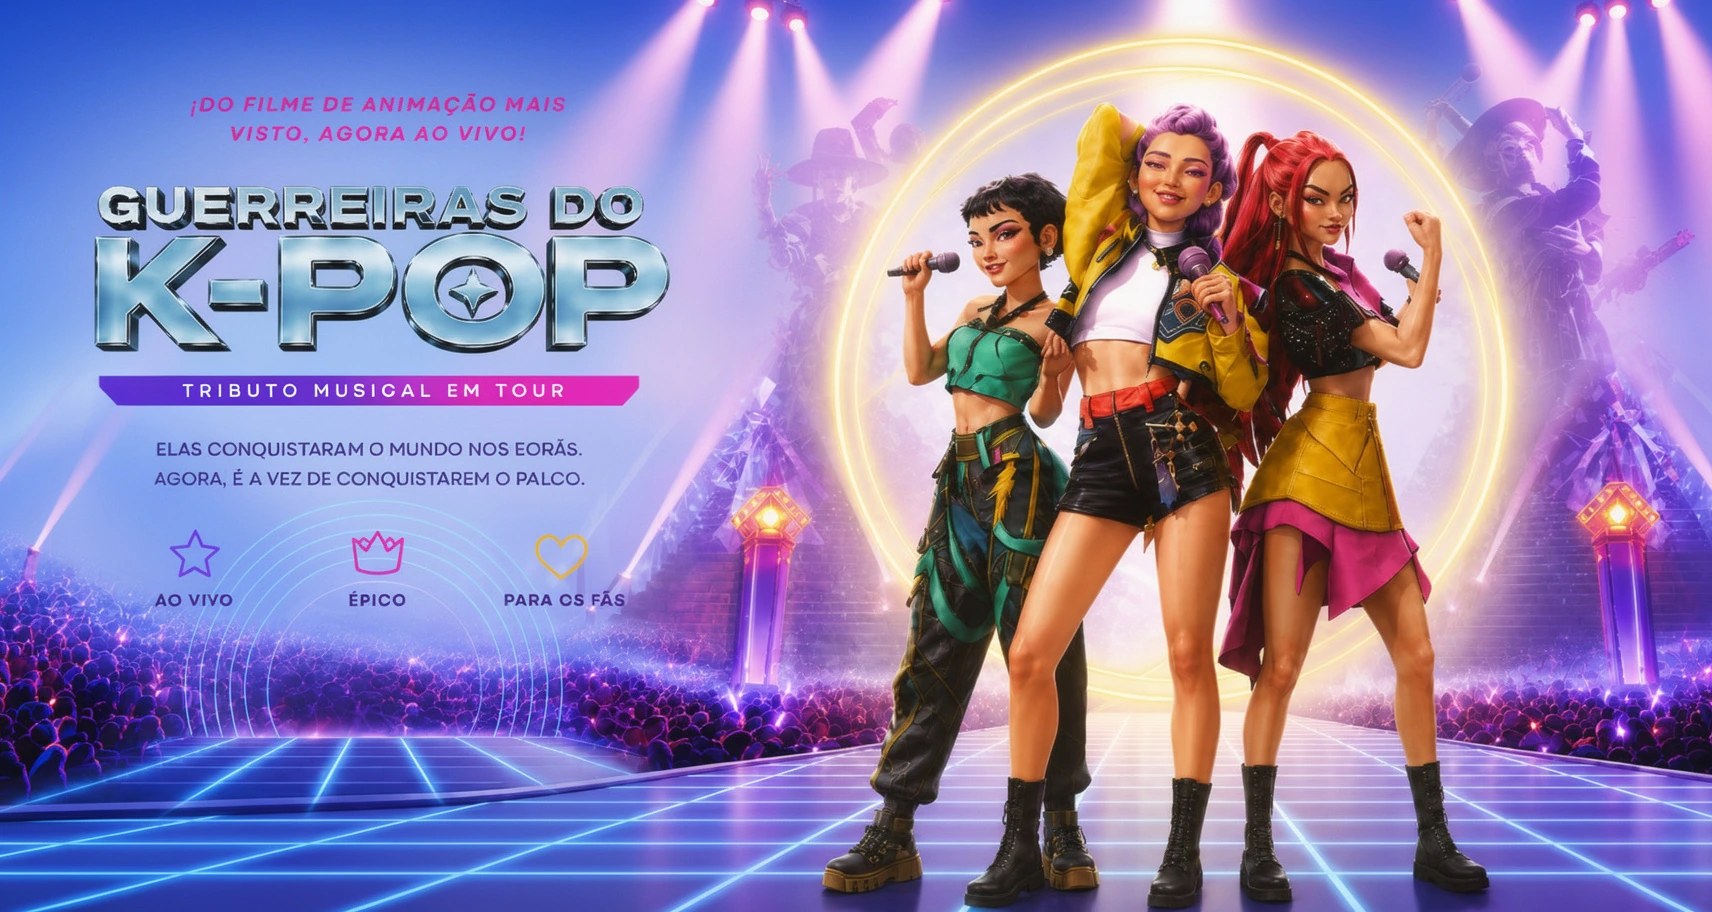
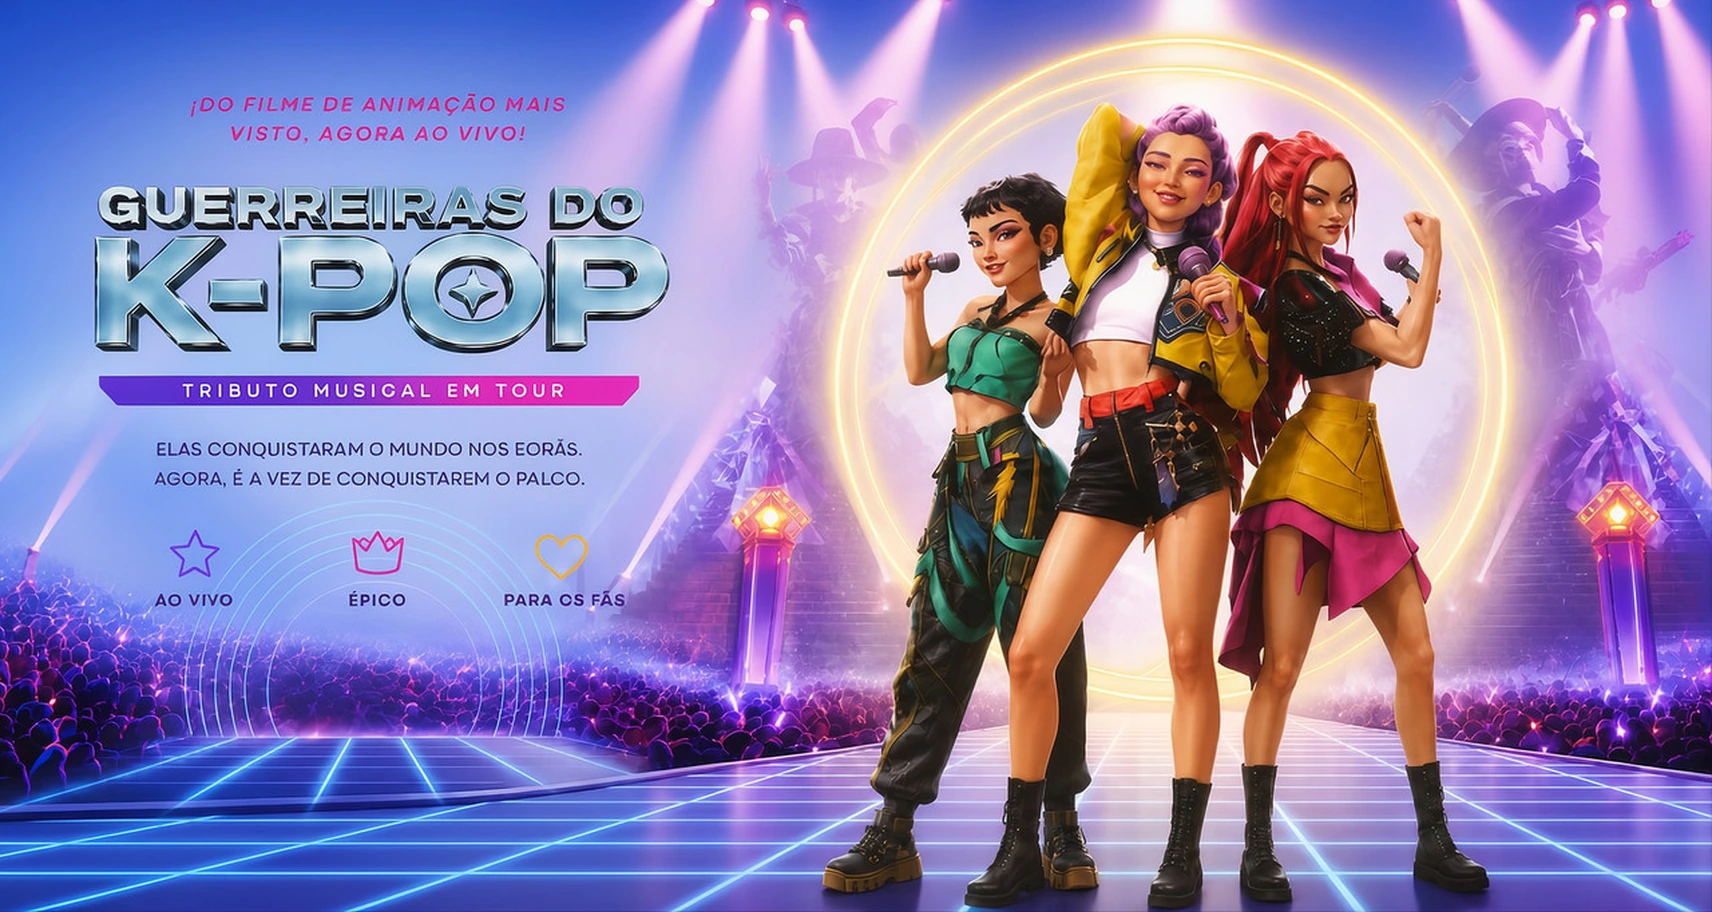
Hero desktop: substituir imagens dia+noite (alta resolução)
Substituir ambas as imagens do hero (desktop) por novas versões.

MODO NOITE (desktop):
- Original: 4800x2700 (alta resolução)
- Redimensionada: 1672x941 (LANCZOS downscale)
- Proporção: 1.7778 -> 1.7768 (diferença 0.09% ← zero distorção)
- Tamanho: 329.1 KB
- Qualidade: PERFEITA (downscale não perde qualidade)

MODO DIA (desktop):
- Original: 1280x682
- Redimensionada: 1712x912 (LANCZOS upscale ligeiro)
- Proporção: 1.8768 -> 1.8772 (diferença 0.04% ← zero distorção)
- Tamanho: 303.6 KB

Mantido:
- Imagens mobile (hero-bg-mobile.webp e hero-bg-mobile-light.webp)
- Todas as outras configurações (zoom, object-fit, cores de fundo)

Cache-buster bumped: ?v=61 -> ?v=62.

diff --git a/src/app/page.tsx b/src/app/page.tsx
@@ -1025,23 +1025,23 @@ export default function HomePage() {
             Usa <picture> para servir imagens diferentes conforme o dispositivo:
             - Smartphone (<768px): imagens retrato (hero-bg-mobile*.webp) — novas imagens do user
             - Tablet+ (≥768px): imagens paisagem originais (hero-bg*.webp)
-            Query parameter ?v=61 para cache-busting (força reload das imagens novas). */}
+            Query parameter ?v=62 para cache-busting (força reload das imagens novas). */}
         <picture>
           {/* Smartphone (<768px) — imagens retrato ORIGINAIS do user (substituídas v7) */}
           <source
             media="(max-width: 767px)"
-            srcSet={themeMode === 'light' ? "/hero-bg-mobile-light.webp?v=61" : "/hero-bg-mobile.webp?v=61"}
+            srcSet={themeMode === 'light' ? "/hero-bg-mobile-light.webp?v=62" : "/hero-bg-mobile.webp?v=62"}
             type="image/webp"
           />
           {/* Tablet+ (≥768px) — imagens paisagem originais (hero-bg*.webp) */}
           <source
             media="(min-width: 768px)"
-            srcSet={themeMode === 'light' ? "/hero-bg-light.webp?v=61" : "/hero-bg.webp?v=61"}
+            srcSet={themeMode === 'light' ? "/hero-bg-light.webp?v=62" : "/hero-bg.webp?v=62"}
             type="image/webp"
           />
           {/* Fallback para browsers sem suporte <picture> */}
           <img
-            src={themeMode === 'light' ? "/hero-bg-light.webp?v=61" : "/hero-bg.webp?v=61"}
+            src={themeMode === 'light' ? "/hero-bg-light.webp?v=62" : "/hero-bg.webp?v=62"}
             alt=""
             className={`hero-bg-img ${heroFlash.type !== 'none' ? 'flashing' : ''}`}
             fetchPriority="high"
